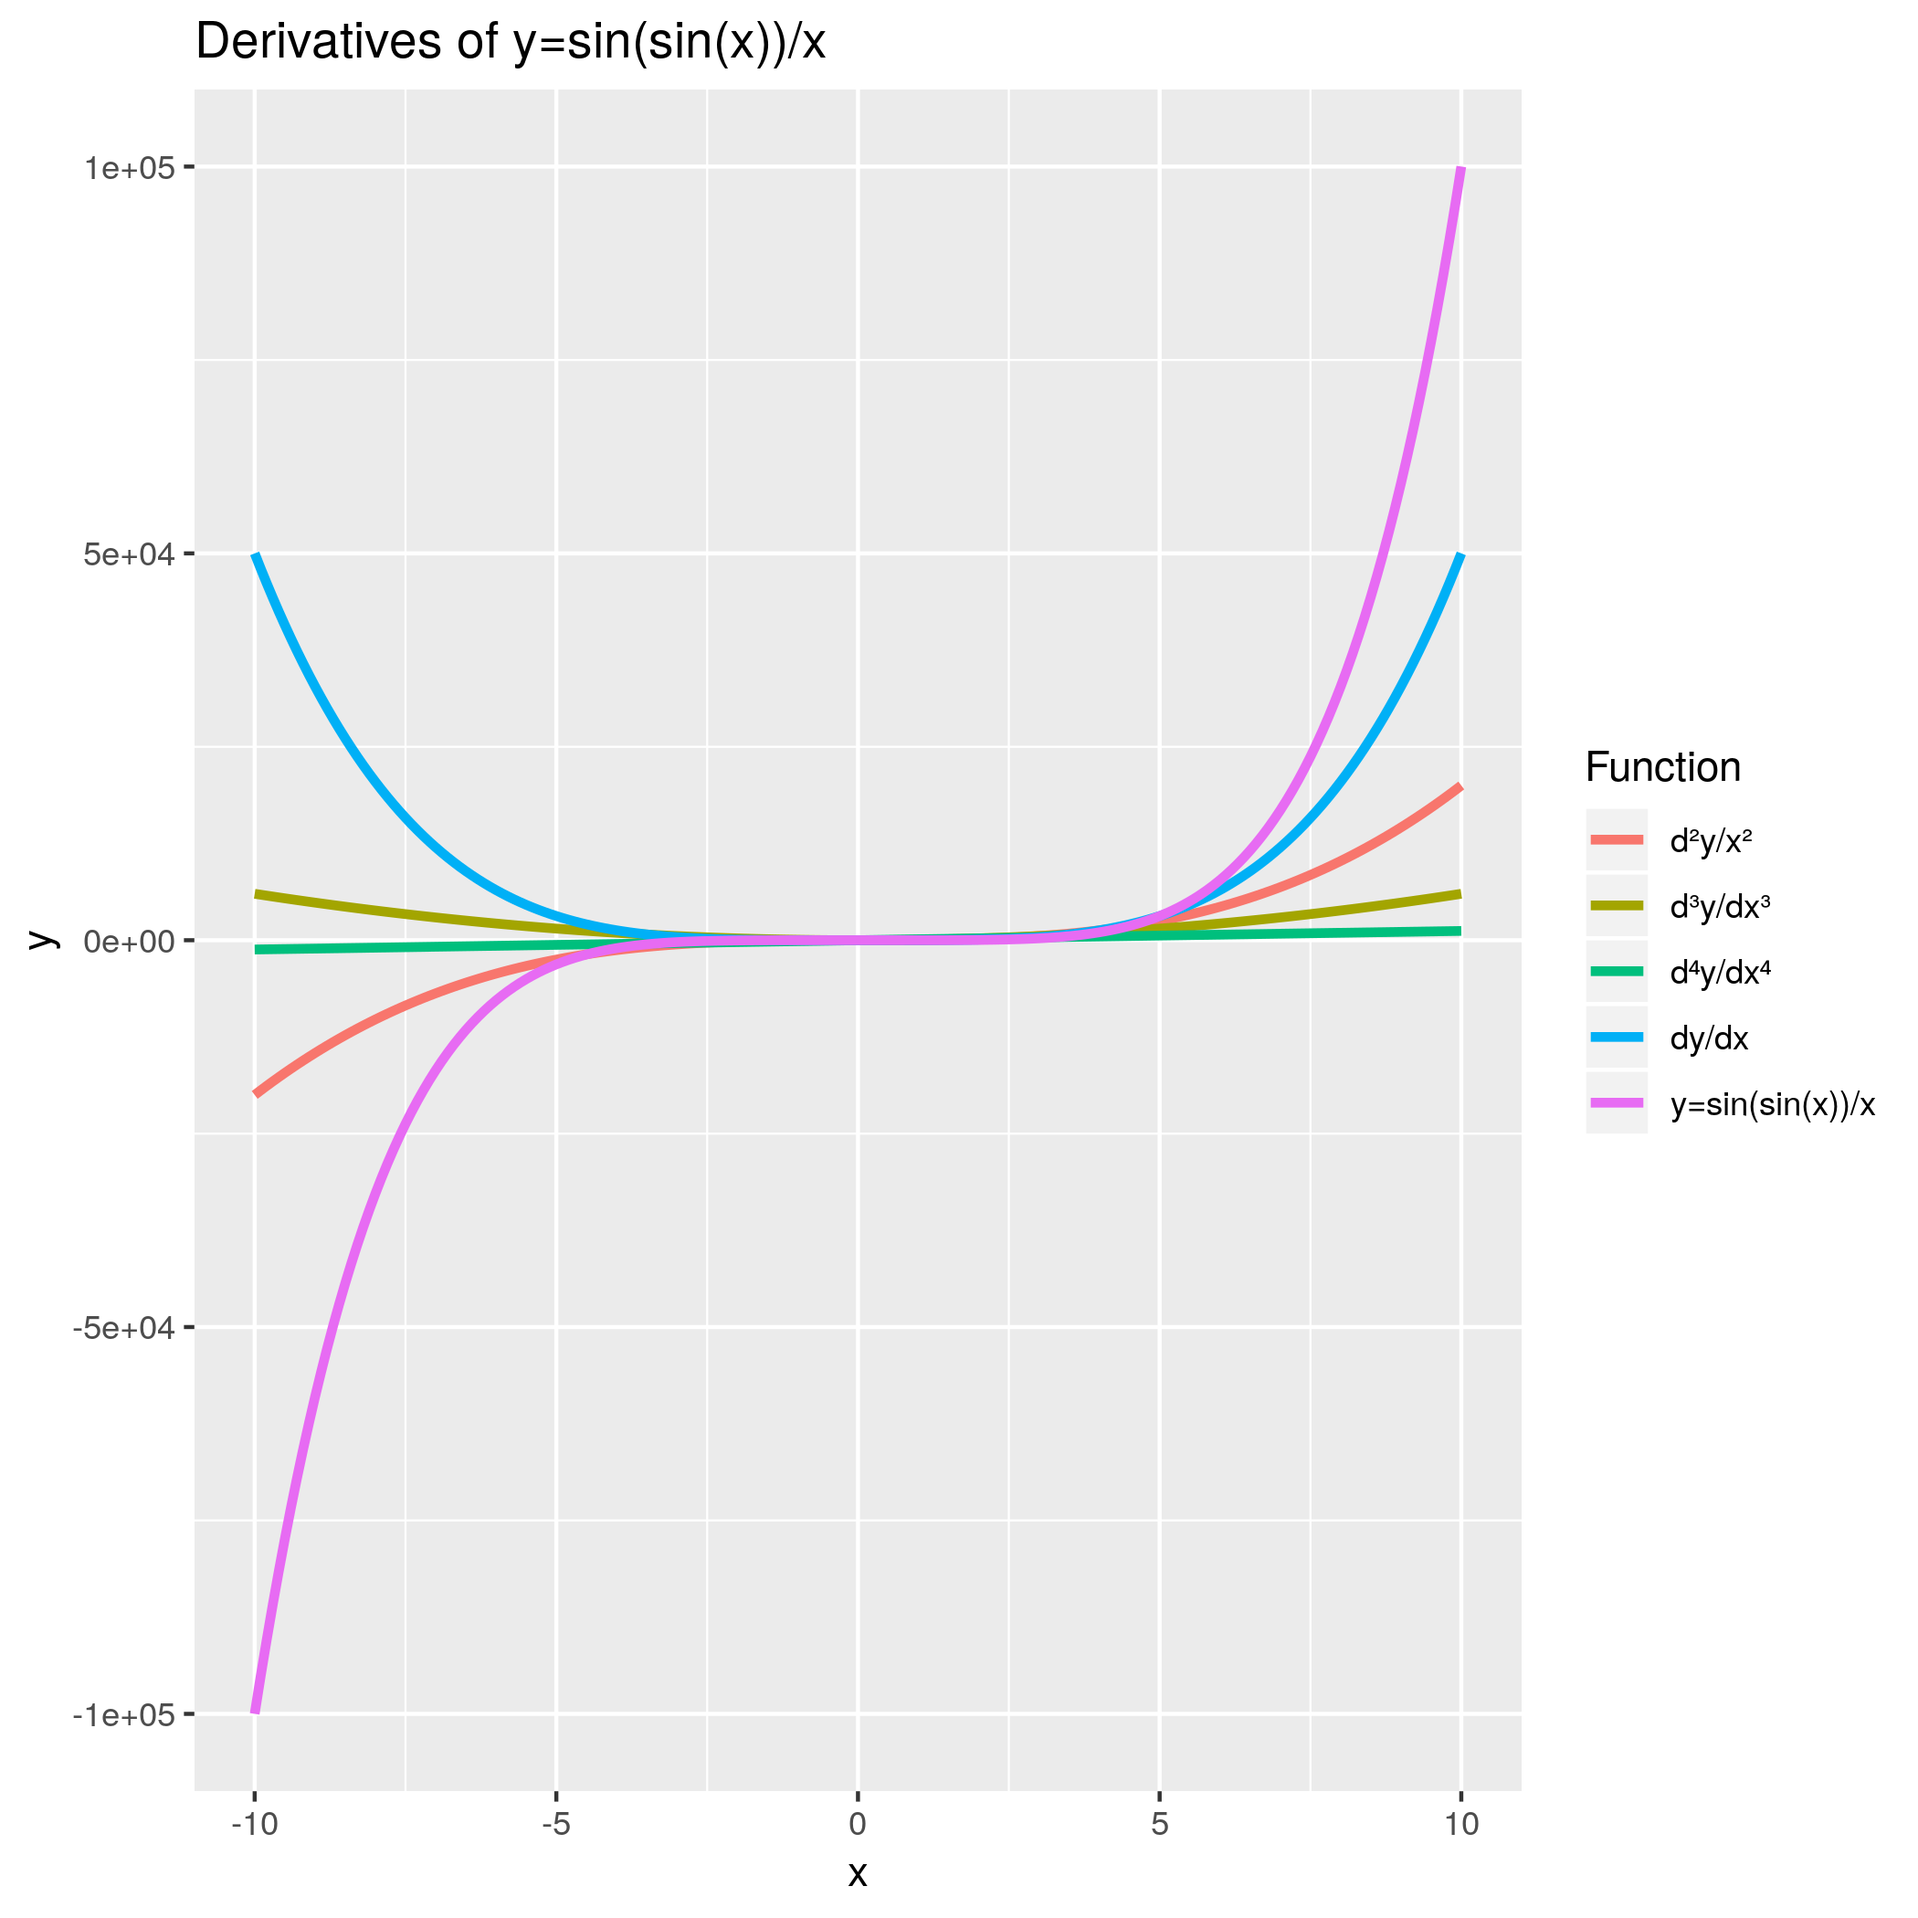
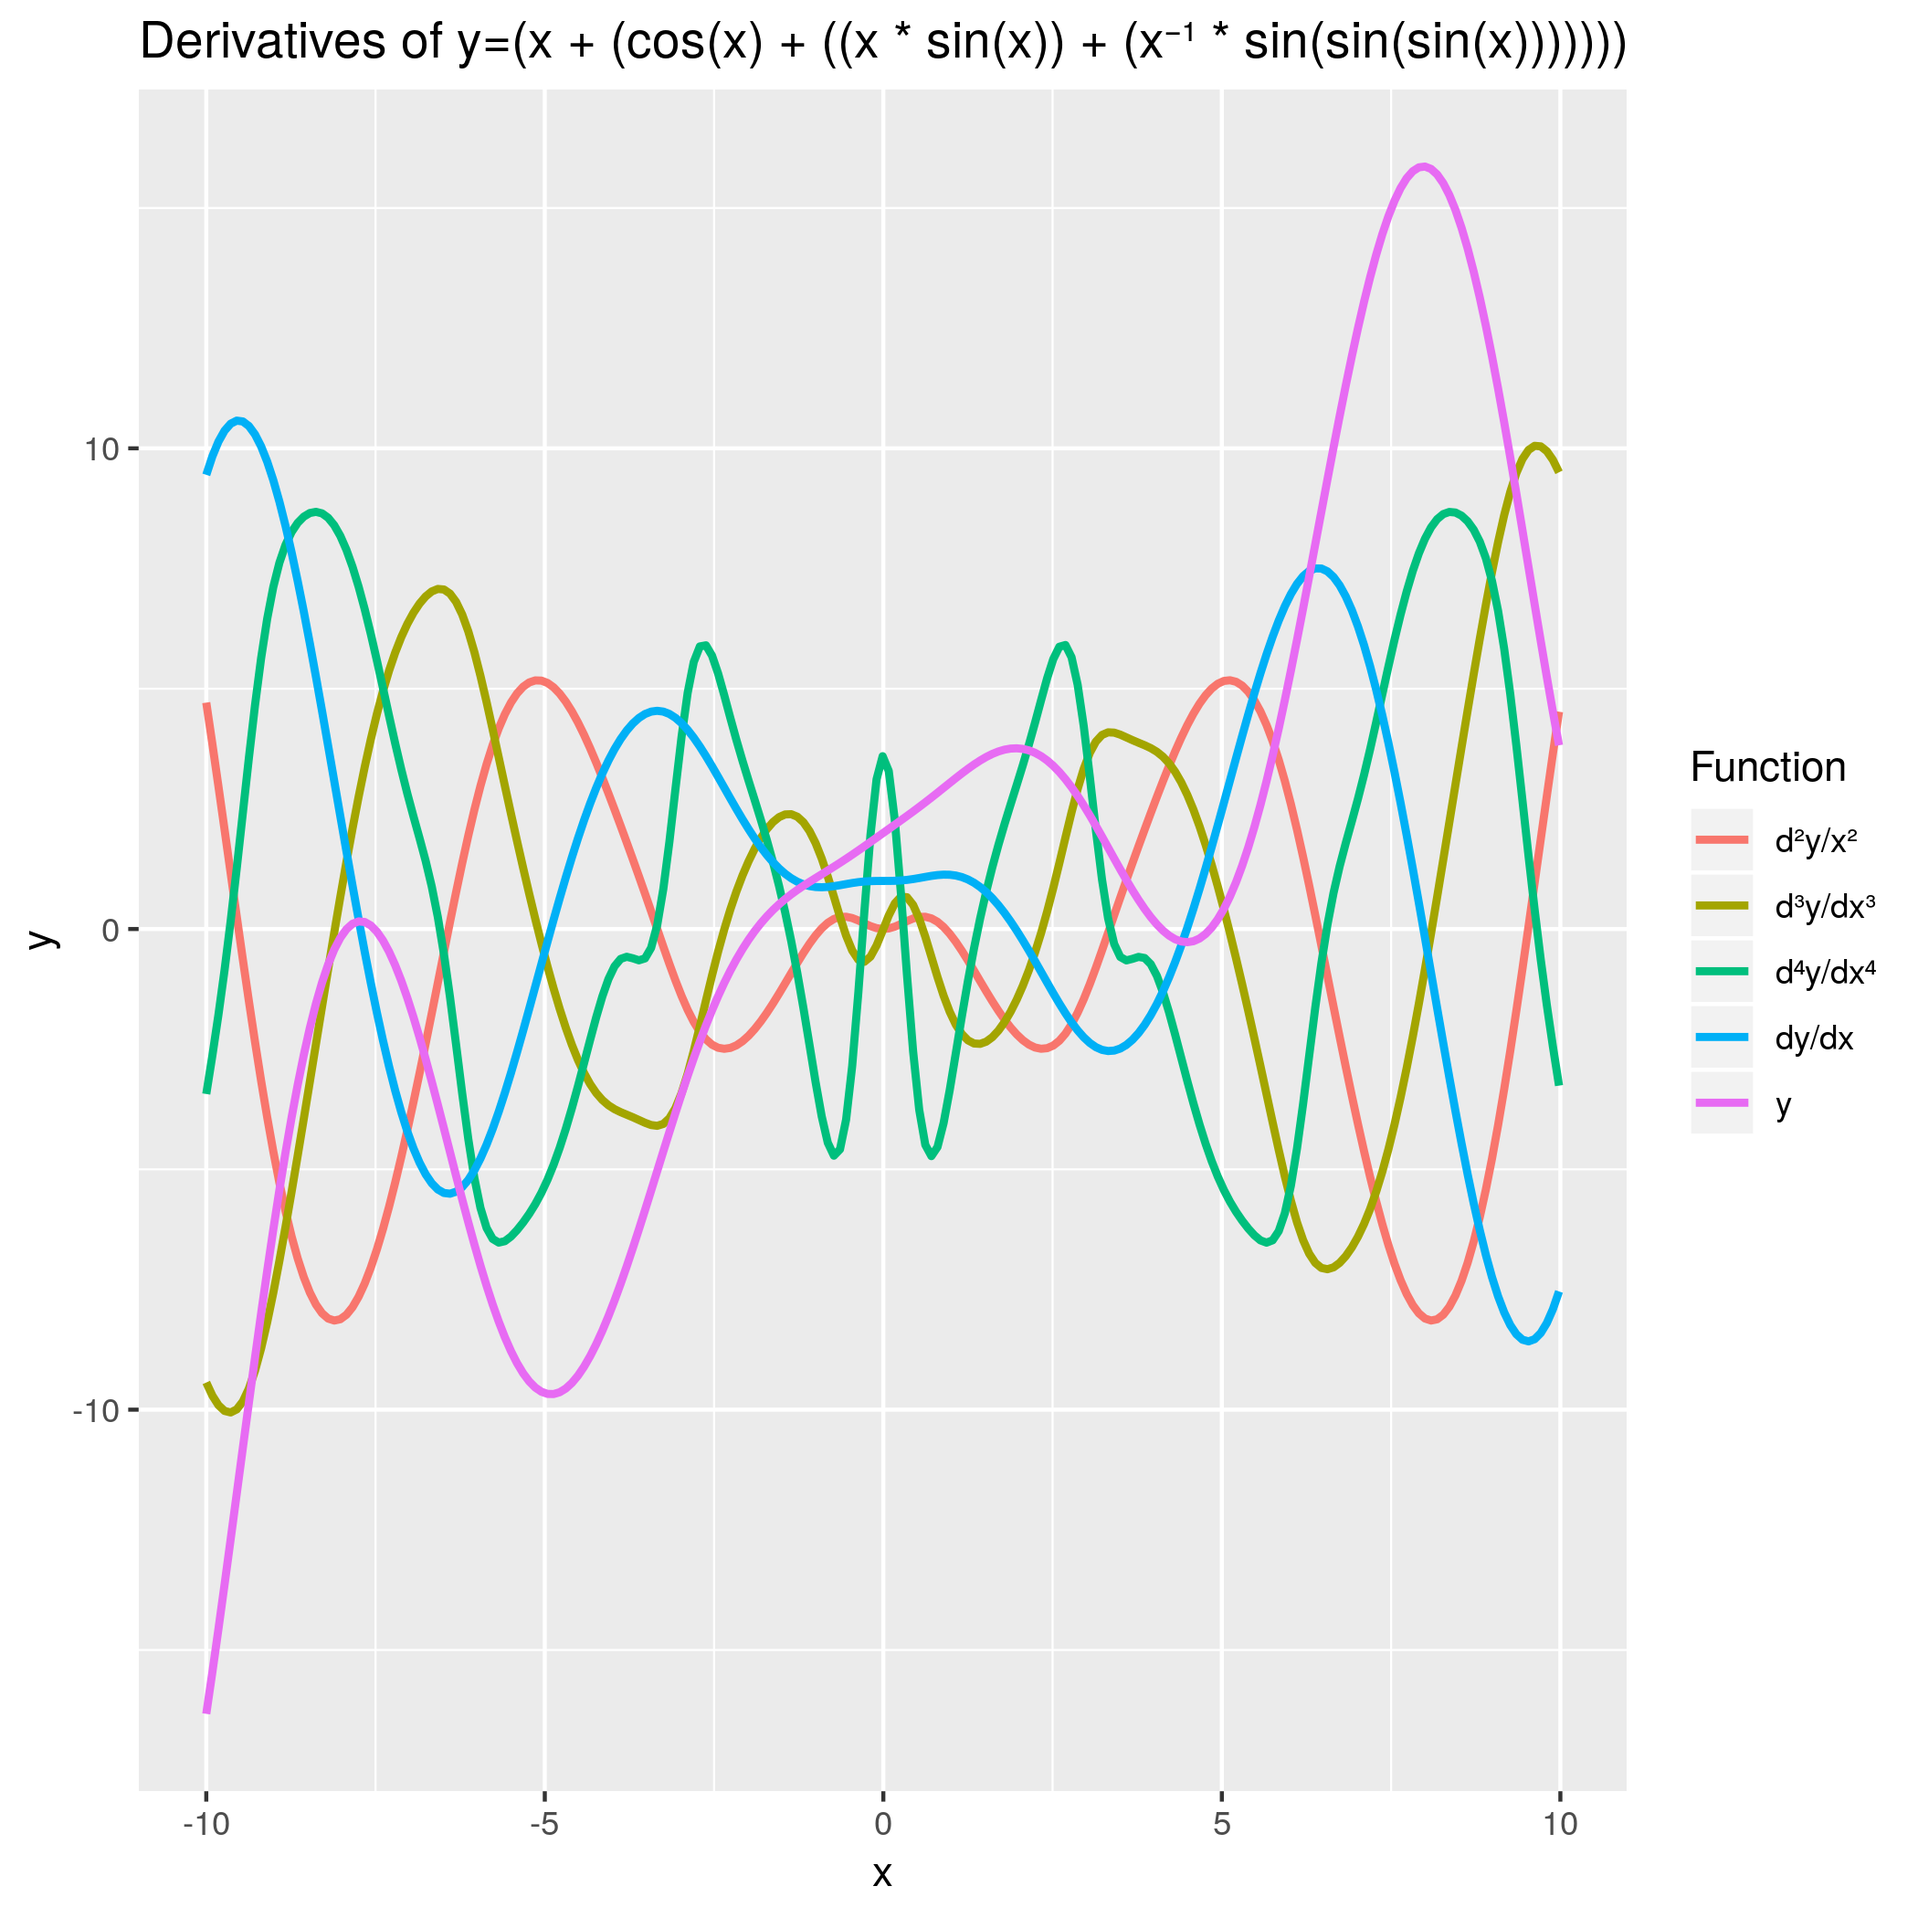
more fun with plots

diff --git a/src/main/kotlin/edu/umontreal/kotlingrad/math/samples/TestPlot.kt b/src/main/kotlin/edu/umontreal/kotlingrad/math/samples/TestPlot.kt
@@ -1,7 +1,6 @@
 package edu.umontreal.kotlingrad.math.samples
 
 import edu.umontreal.kotlingrad.math.calculus.DoubleFunctor
-import edu.umontreal.kotlingrad.math.types.Const
 import edu.umontreal.kotlingrad.utils.step
 import krangl.dataFrameOf
 import kravis.geomLine
@@ -11,26 +10,37 @@ import java.io.File
 @Suppress("NonAsciiCharacters", "LocalVariableName", "RemoveRedundantBackticks")
 fun main(args: Array<String>) {
   with(DoubleFunctor) {
-    val x = variable()
+    val x = variable("x")
 
-    val y = sin(sin(x)) / x
+    val y = sin(sin(sin(x))) / x + sin(x) * x + cos(x) + x
     val `dy_dx` = d(y) / d(x)
     val `d²y_dx²` = d(dy_dx) / d(x)
     val `d³y_dx³` = d(`d²y_dx²`) / d(x)
     val `d⁴y_dx⁴` = d(`d³y_dx³`) / d(x)
 
-    val xs = -10.0..10.0 step 0.1
+    val xs = -10.0..10.0 step 0.09
 
-    val ys = (xs.map { listOf(it, y(x to it), "y=sin(sin(x))/x") } +
-        xs.map { listOf(it, dy_dx(x to it), "dy/dx") } +
-        xs.map { listOf(it, `d²y_dx²`(x to it), "d²y/x²") } +
-        xs.map { listOf(it, `d³y_dx³`(x to it), "d³y/dx³") } +
-        xs.map { listOf(it, `d⁴y_dx⁴`(x to it), "d⁴y/dx⁴") }).flatten()
+    println("""y=$y
+
+dy/dx=$dy_dx
+
+d²y/dx²=$`d²y_dx²`
+
+d³y/dx³=$`d³y_dx³`
+
+d⁴y/dx⁴=$`d⁴y_dx⁴`""")
+
+    val ys = (xs.map { listOf(it, y(it), "y") }
+        + xs.map { listOf(it, dy_dx(it), "dy/dx") }
+        + xs.map { listOf(it, `d²y_dx²`(it), "d²y/x²") }
+        + xs.map { listOf(it, `d³y_dx³`(it), "d³y/dx³") }
+        + xs.map { listOf(it, `d⁴y_dx⁴`(it), "d⁴y/dx⁴") }
+        ).flatten()
 
     dataFrameOf("x", "y", "Function")(ys)
         .plot(x = "x", y = "y", color = "Function")
-        .geomLine(size = 1.2)
-        .title("Derivatives of y=sin(sin(x))/x")
+        .geomLine(size = 1.0)
+        .title("Derivatives of y=$y")
         .save(File("src/main/resources/plot.png"))
   }
 }

diff --git a/src/main/kotlin/edu/umontreal/kotlingrad/math/types/UnivariatePolynomialTerm.kt b/src/main/kotlin/edu/umontreal/kotlingrad/math/types/UnivariatePolynomialTerm.kt
@@ -20,6 +20,7 @@ class UnivariatePolynomialTerm<X: Field<X>>(
   override fun unaryMinus() = UnivariatePolynomialTerm(-coefficient, arg, exponent)
 
   private fun superscript(exponent: Int) = exponent.toString()
+      .replace("-", "⁻")
       .replace("0", "⁰")
       .replace("1", "¹")
       .replace("2", "²")

diff --git a/README.md b/README.md
@@ -78,26 +78,27 @@ import java.io.File
 @Suppress("NonAsciiCharacters", "LocalVariableName", "RemoveRedundantBackticks")
 fun main(args: Array<String>) {
   with(DoubleFunctor) {
-    val x = variable()
+    val x = variable("x")
 
-    val y = sin(x) / x
+    val y = sin(sin(sin(x))) / x + sin(x) * x + cos(x) + x
     val `dy_dx` = d(y) / d(x)
     val `d²y_dx²` = d(dy_dx) / d(x)
     val `d³y_dx³` = d(`d²y_dx²`) / d(x)
     val `d⁴y_dx⁴` = d(`d³y_dx³`) / d(x)
 
-    val xs = -10.0..10.0 step 0.1
+    val xs = -10.0..10.0 step 0.09
 
-    val ys = (xs.map { listOf(it, y(x to it), "y=sin(x)/x") } +
-        xs.map { listOf(it, dy_dx(x to it), "dy/dx") } +
-        xs.map { listOf(it, `d²y_dx²`(x to it), "d²y/x²") } +
-        xs.map { listOf(it, `d³y_dx³`(x to it), "d³y/dx³") } +
-        xs.map { listOf(it, `d⁴y_dx⁴`(x to it), "d⁴y/dx⁴") }).flatten()
+    val ys = (xs.map { listOf(it, y(it), "y") }
+        + xs.map { listOf(it, dy_dx(it), "dy/dx") }
+        + xs.map { listOf(it, `d²y_dx²`(it), "d²y/x²") }
+        + xs.map { listOf(it, `d³y_dx³`(it), "d³y/dx³") }
+        + xs.map { listOf(it, `d⁴y_dx⁴`(it), "d⁴y/dx⁴") }
+        ).flatten()
 
     dataFrameOf("x", "y", "Function")(ys)
         .plot(x = "x", y = "y", color = "Function")
-        .geomLine(size = 1.2)
-        .title("Derivatives of y=sin(x)/x")
+        .geomLine(size = 1.0)
+        .title("Derivatives of y=$y")
         .save(File("src/main/resources/plot.png"))
   }
 }
